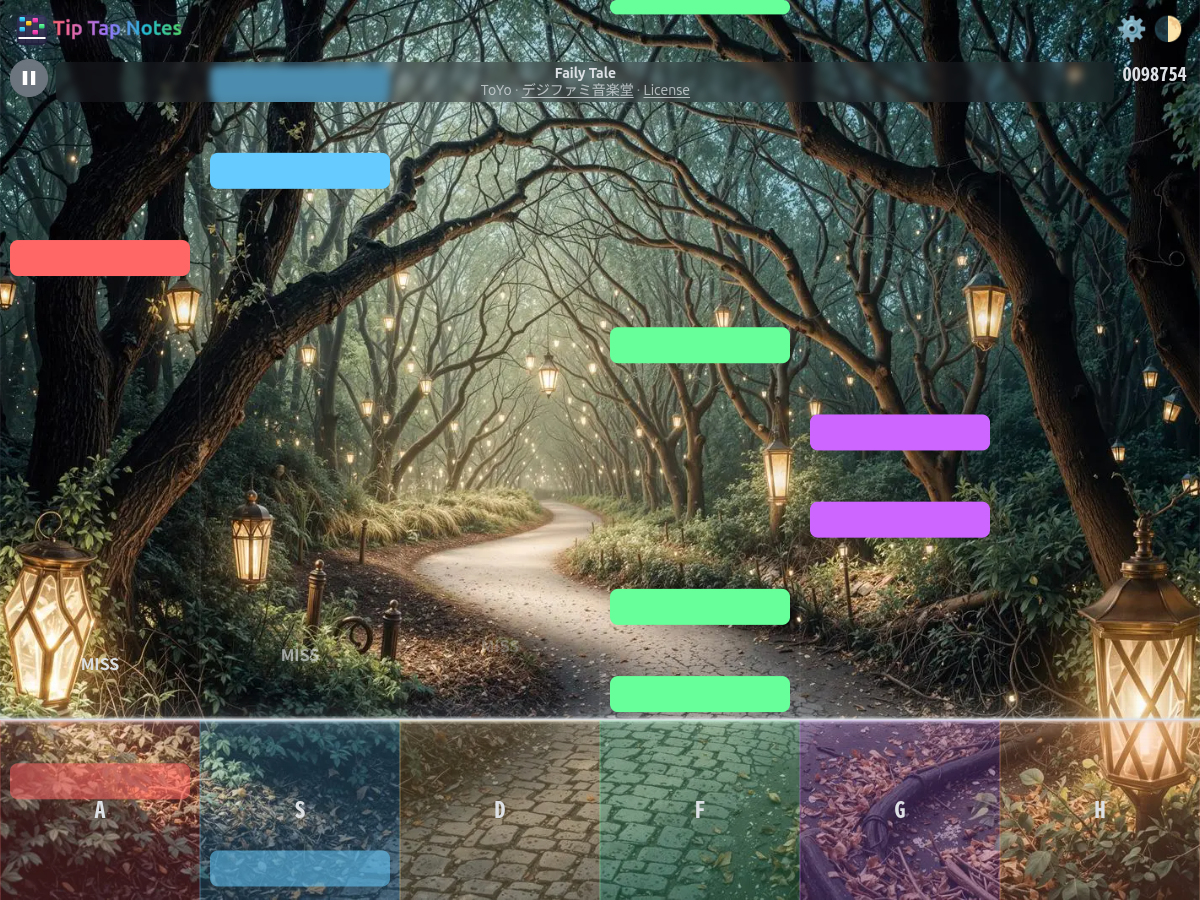
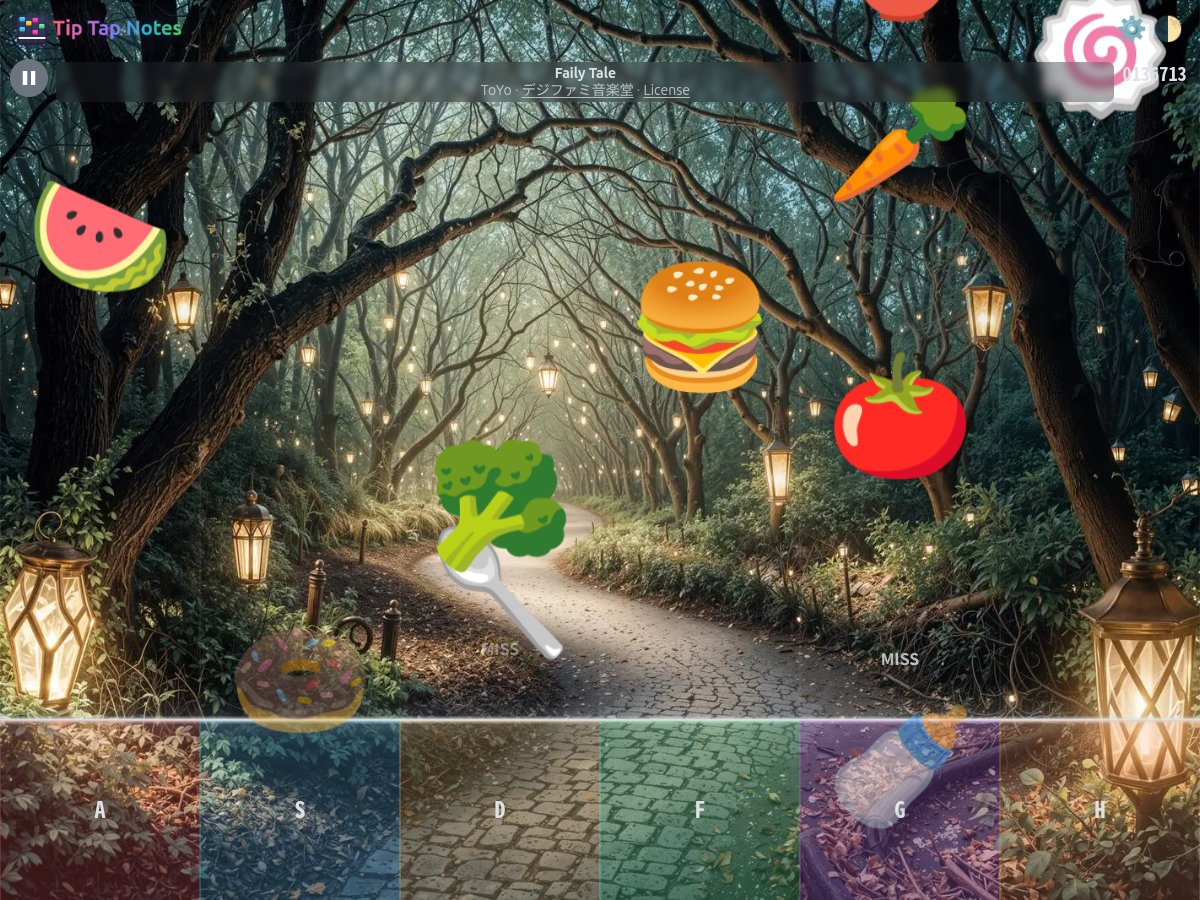
update screenshots

diff --git a/README.md b/README.md
@@ -24,10 +24,10 @@ Settings Screen ![Settings Screen](screenshots/mugen/05.png)
 
 Score Screen ![Score Screen](screenshots/mugen/06.png)
 
-Customization - Background
+Customization - Note Type
 ![Customization - Background](screenshots/mugen/07.png)
 
-Customization - Notes/Lanes
+Customization - Character
 ![Customization - Notes/Lanes](screenshots/mugen/08.png)
 
 Customization - Keys ![Customization - Keys](screenshots/mugen/09.png)
